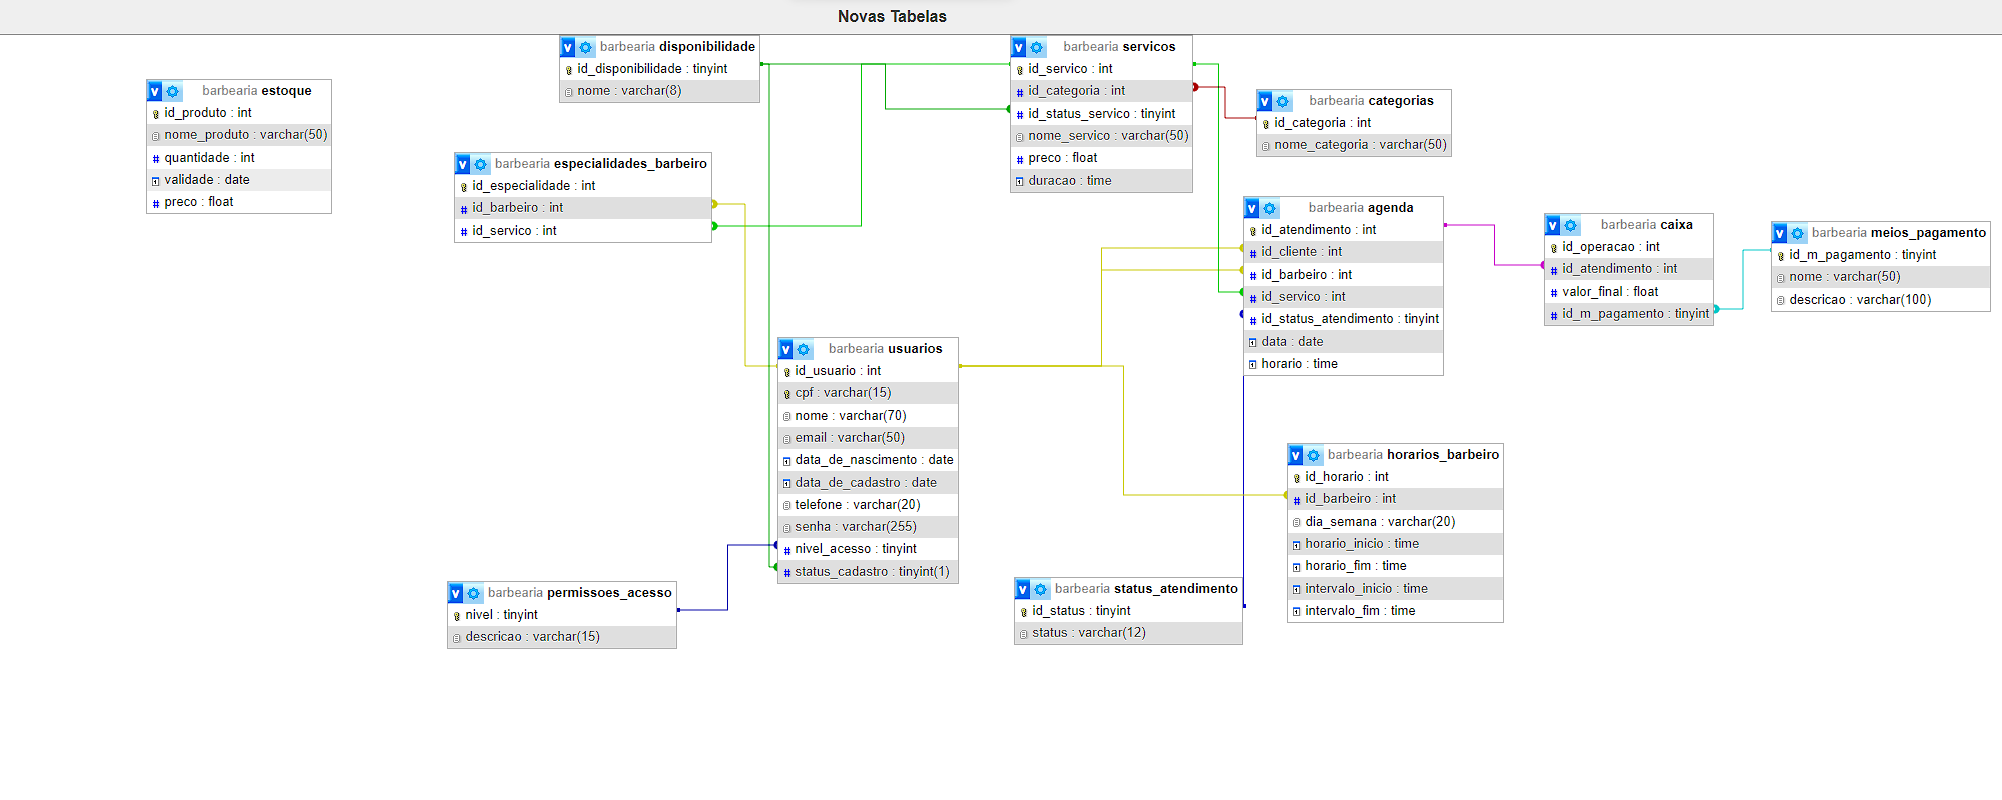
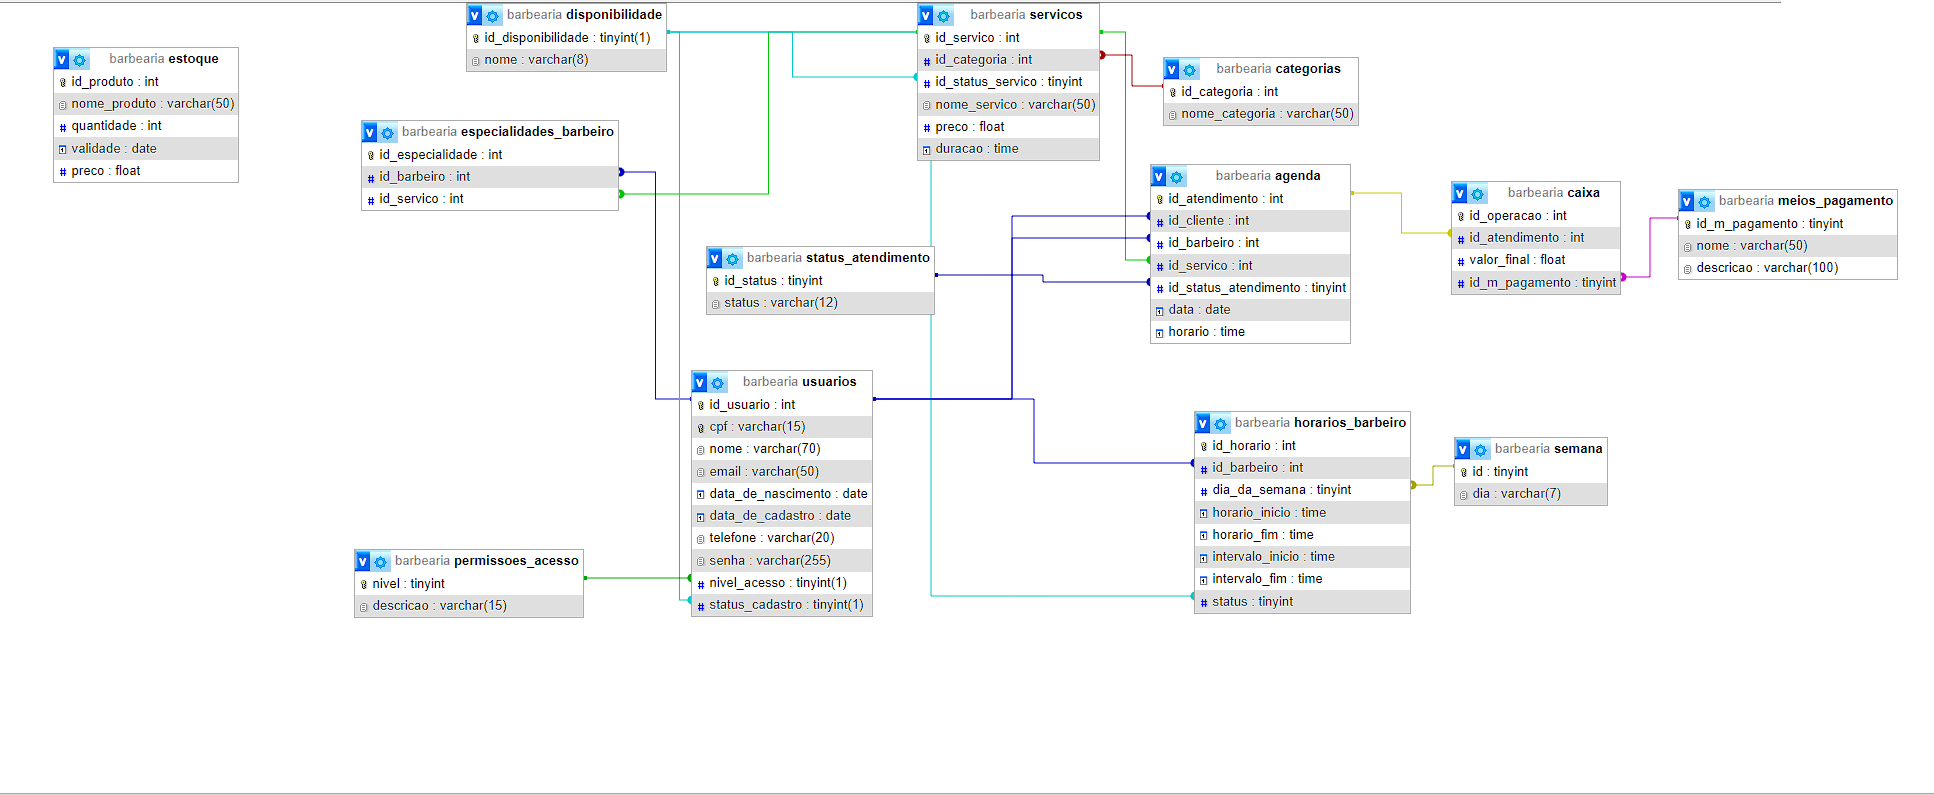
Correção de bug, estruturação da consulta da agenda com inclusão da tabela semana. Atualização do Diagrama do Banco de Dados

Changed region(s): [[0.0, 0.0, 1.0, 0.8151], [0.0, 0.9962, 1.0, 1.0]]

diff --git a/src/controllers/schedule.js b/src/controllers/schedule.js
@@ -4,47 +4,84 @@ exports.getSchedule = async (req, res, next) => {
     try {
         const sql = `
             SELECT
-                h.id_barbeiro, u.nome, h.dia_da_semana, h.horario_inicio, h.horario_fim, h.intervalo_inicio, h.intervalo_fim
+                s.id, s.dia, h.id_barbeiro, u.nome, h.horario_inicio, h.horario_fim, h.intervalo_inicio, h.intervalo_fim
             FROM
+                semana AS s
+            INNER JOIN
                 horarios_barbeiro AS h
+            ON
+                h.dia_da_semana = s.id
             INNER JOIN
                 usuarios AS u
             ON
                 h.id_barbeiro = u.id_usuario
-            WHERE h.dia_da_semana = 3
+            ORDER BY
+                s.id, u.nome 
             `
         const results = await dbConn.execute(sql)
 
-        const allResults = results.map(values => {
+        let day
+        const allResults = []
+
+        results.map(values => {
+            const {
+                id,
+                dia,
+                id_barbeiro,
+                nome,
+                horario_inicio,
+                horario_fim,
+                intervalo_inicio,
+                intervalo_fim
+            } = values
+
             //CONVETENDO HORÁRIOS EM MILISEGUNDOS
-            const startTime = new Date(`1970-01-01T${values.horario_inicio}Z`).getTime()
-            const endTime = new Date(`1970-01-01T${values.horario_fim}Z`).getTime() - (1000 * 60 * 30)
-            const startInterval = new Date(`1970-01-01T${values.intervalo_inicio}Z`).getTime()
-            const endInterval = new Date(`1970-01-01T${values.intervalo_fim}Z`).getTime()
-            //30 MINUTOS CONVETIDO EM MILISEGUNDOS
-            const breakPoint = 1000 * 60 * 30
-            //SEPARAÇÃO DE HORÁRIOS
-            const availableTimes = []
-            const unavailableTimes = []
-            for (time = startTime; time <= endTime; time += breakPoint) {
-                if (time >= startInterval && time < endInterval) {
-                    unavailableTimes.push(time)
-                }
-                availableTimes.push(time)
+            const horarios = {
+                inicio: Date.parse(`1970-01-01T${horario_inicio}`),
+                fim: Date.parse(`1970-01-01T${horario_fim}`) - (1000 * 60 * 30),
+                intervaloInicio: Date.parse(`1970-01-01T${intervalo_inicio}`),
+                intervaloFim: Date.parse(`1970-01-01T${intervalo_fim}`)
             }
 
-            return {
-                barber_id: values.id_barbeiro,
-                barber_name: values.nome,
-                daily: values.dia_da_semana,
-                available_times: availableTimes,
-                unavailable_times: unavailableTimes,
-                description: 'Horários em Timestamp'
+            //INTERVALOS DE 30 MINUTOS EM MILISEGUNDOS
+            const breakPoint = 1000 * 60 * 30
+
+            const availableTimes = []
+            const unavailableTimes = []
+
+            //SEPARAÇÃO DE HORÁRIOS
+            for (let time = horarios.inicio; time <= horarios.fim; time += breakPoint) {
+                if (time >= horarios.intervaloInicio && time < horarios.intervaloFim) {
+                    unavailableTimes.push(new Date(time).toLocaleTimeString('pt-BR', { hour: '2-digit', minute: '2-digit' }))
+                }
+                availableTimes.push(new Date(time).toLocaleTimeString('pt-BR', { hour: '2-digit', minute: '2-digit' }))
             }
+
+            if (day == null || day != id) {
+                allResults.push({
+                    day_id: id,
+                    day_name: dia,
+                    daily_schedule: [{
+                        barber_id: id_barbeiro,
+                        barber_name: nome,
+                        available_times: availableTimes,
+                        unavailable_times: unavailableTimes,
+                    }]
+                })
+            } else {
+                allResults[allResults.length - 1].daily_schedule.push({
+                    barber_id: id_barbeiro,
+                    barber_name: nome,
+                    available_times: availableTimes,
+                    unavailable_times: unavailableTimes
+                })
+            }
+            day = id
         })
 
         return res.status(200).send(allResults)
-    } catch (error) {
+    }
+    catch (error) {
         return res.status(500).send({
             message: "Ocorreu algum erro, entre em contato com o administrador",
             errorMessage: error
